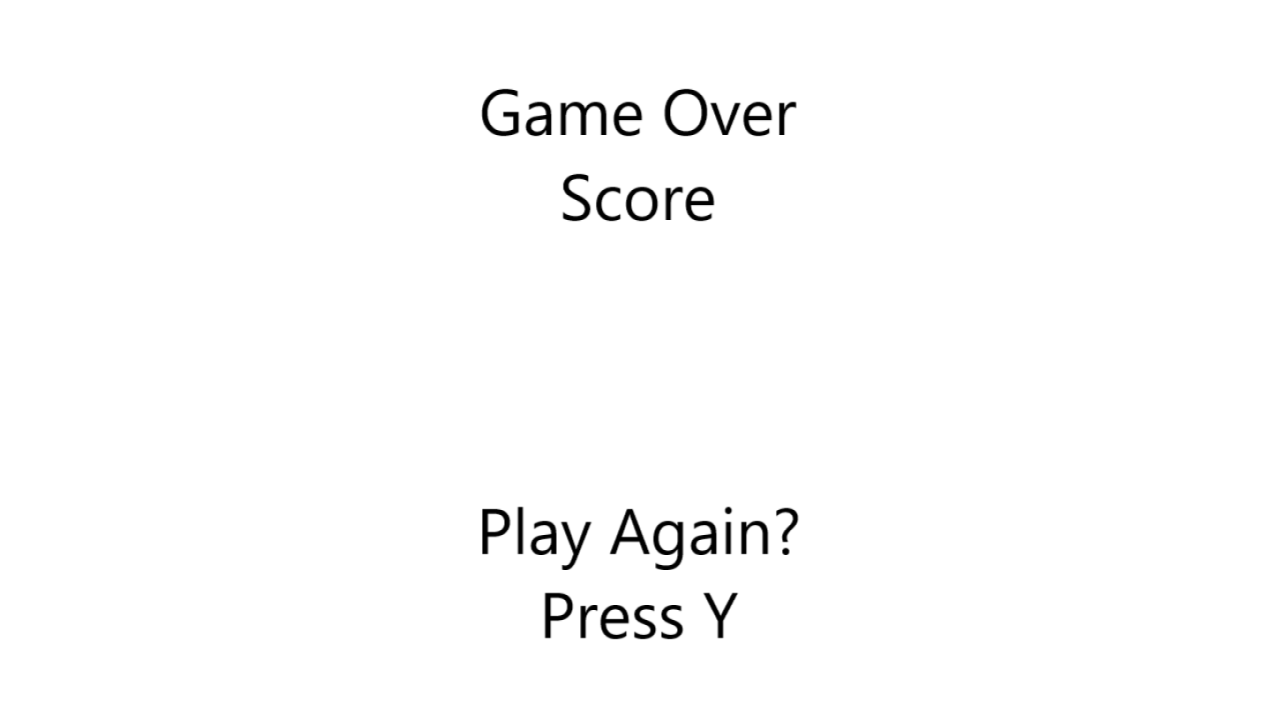
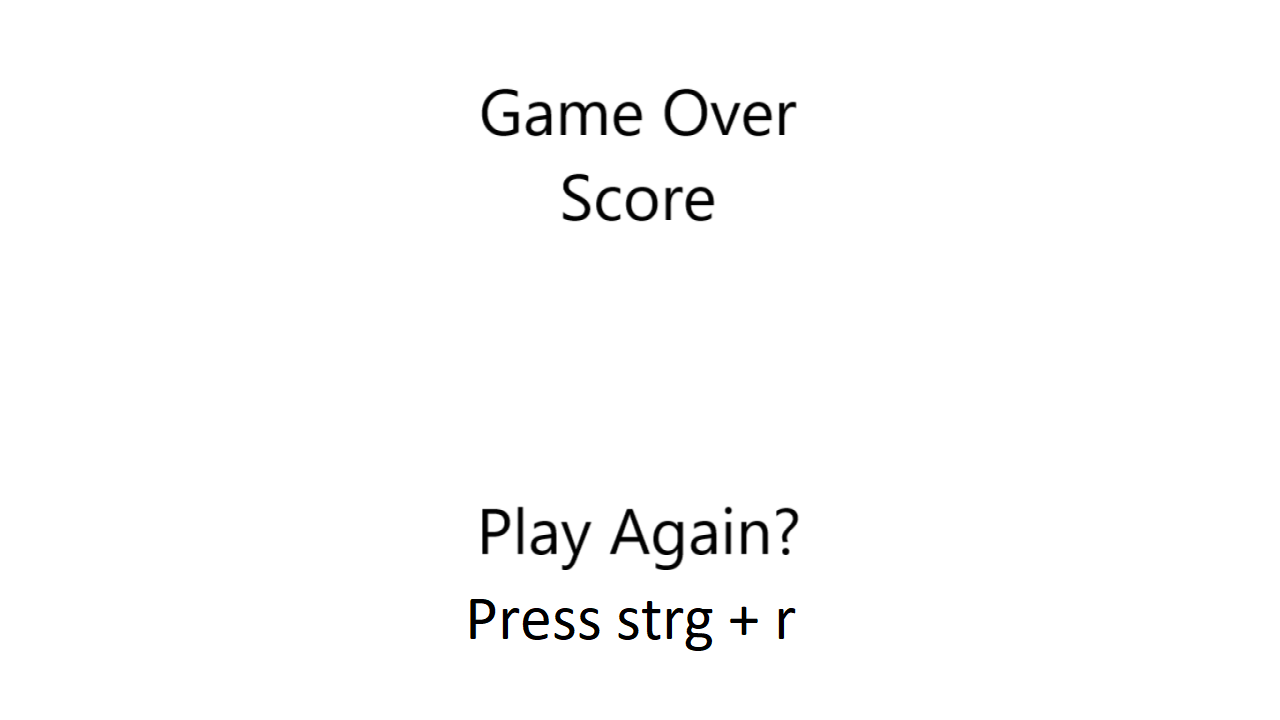
21. Stunde part 1
-Simplified
-Dokumentation

Changed region(s): [[0.3438, 0.825, 0.625, 0.9167]]

diff --git a/Schussgame/Simple Top-Down Shooter/MyWorld.java b/Schussgame/Simple Top-Down Shooter/MyWorld.java
@@ -4,9 +4,7 @@ public class MyWorld extends World //The world in wich the game happens.
     public static int game_speed =50; // Number of times Act is performed per Second(Can change depending on performance).
     public static int Slimes =0; // The Number of Slimes currently in the game.
     public static int Score =0; // The Score.
-    public int wait =0; // Temp storage.
     public int Max_Slimes =1; //The current number of Slimes Max at a time.
-    public int wait_2 =0; // Temp storage.
     GreenfootSound tense_backgroundMusic = new GreenfootSound("Trouble.mp3"); //Makes it playable as a Loop.
     GreenfootSound backgroundMusic = new GreenfootSound("dungeon theme.mp3"); //Makes it playable as a Loop.
     GreenfootSound GameOverMusic = new GreenfootSound("No Hope.mp3"); //Makes it playable as a Loop.
@@ -24,18 +22,21 @@ public class MyWorld extends World //The world in wich the game happens.
         game_speed =50; // Number of times Act is performed per Second(Can change depending on performance).
         Slimes =0; // The Number of Slimes currently in the game.
         Score =0; // The Score.
-        wait =0; // Temp storage.
         Max_Slimes =1; //The current number of Slimes Max at a time.
-        wait_2 =0; // Temp storage.
+        getObjects(Player.class).get(0).Cooldown_Gun =-10; // Cooldown until player can shoot again.
+        getObjects(Player.class).get(0).upgrade_level =0; // Current level of the player.
+        getObjects(Player.class).get(0).Hearts =5; // The amounts of Hearts.
+        getObjects(Player.class).get(0).immortal =3*MyWorld.game_speed; // Time the Player is immortal they start with 3 seconds.
+        getObjects(Player.class).get(0).forcefield_time =0; // The current Forcefield time.
     }
     public void act() //Done around 50 times per Second.
     {
         slime_spawning();
-        GameOver();
         update_Max();
         Background_Music();
         Pause_Menu();
         startmenu();
+        GameOver();
         //cheat_codes(); // Used to test new features.
     }
     public void startmenu() //Deletes the Startmenu.
@@ -47,6 +48,10 @@ public class MyWorld extends World //The world in wich the game happens.
     }
     public void Pause_Menu() //Makes the Pause Menu possible.
     {
+        if(!getObjects(PauseMenu.class).isEmpty()) //Checks if the Pausemenu is there.
+        {
+            this.removeObjects(getObjects(PauseMenu.class)); //Removes the Pausemenu.
+        }
         if(Greenfoot.isKeyDown("p")) //If the player presses P
         {
             this.addObject(new PauseMenu(),640,360); //adds the Pausemenu.
@@ -54,118 +59,108 @@ public class MyWorld extends World //The world in wich the game happens.
             backgroundMusic.stop(); //Stops Background Music.
             Greenfoot.stop(); //Pauses Greenfoot.
         }
-        if(!getObjects(PauseMenu.class).isEmpty()) //Checks if the Pausemenu is there.
-        {
-            this.removeObjects(getObjects(PauseMenu.class)); //Removes the Pausemenu.
-        }
     }
-    public void Background_Music() //
+    public void Background_Music() //Changes the Background Music.
     {
-        if(getObjects(Player.class).get(0).Hearts==1)
+        if(getObjects(Player.class).get(0).Hearts==1) //If the Player has only 1 Heart Remaining it gets Tense.
         {
             backgroundMusic.stop();
             tense_backgroundMusic.playLoop();
         }
-        else if (getObjects(Player.class).get(0).Hearts>0)
+        else if(getObjects(Player.class).get(0).Hearts>1) //Else the Background is Calm.
         {
             tense_backgroundMusic.stop();
             backgroundMusic.playLoop();
         }
     }
-    public void cheat_codes()
+    public void cheat_codes() //Cheat codes for tests.
     {
-        if(Greenfoot.isKeyDown("u"))
+        if(Greenfoot.isKeyDown("u")) //Spawns Upgrades.
         {
             this.addObject(new Upgrade(),690,360);
         }
-        if(Greenfoot.isKeyDown("h"))
+        if(Greenfoot.isKeyDown("h")) //Spawns Medikits.
         {
             this.addObject(new MediKit(),740,360);
         }
-        if(Greenfoot.isKeyDown("f"))
+        if(Greenfoot.isKeyDown("f")) //Spawns Forcefields.
         {
             this.addObject(new Forcefield_item(),790,360);
         }
-        if(Greenfoot.isKeyDown("c"))
+        if(Greenfoot.isKeyDown("c")) //Adds to the Score.
         {
             Score++;
         }
     }
-    public void update_Max()
+    public void update_Max() //Updates the Maximum number of slimes at a Time.
     {
-        if(Score>2)
+        if(Score>2) //Makes shure the score is higher than 2 to prevent problems from happening.
         {
-            Max_Slimes=Score/2;
+            Max_Slimes=Score/2; //Sets max slimes to halve of the Score.
         }
     }
-    public void GameOver()
+    public void GameOver() //This Void ends the Game.
     {
-        if(getObjects(Player.class).get(0).Hearts<1)
+        if(!getObjects(GameOver.class).isEmpty()) //Resets the Game.
         {
-            removeObjects(getObjects(Actor.class));
-            tense_backgroundMusic.stop();
-            backgroundMusic.stop();
-            GameOverMusic.playLoop();
-            this.addObject(new GameOver(),640,360);
-            this.addObject(new Credits(), 240,360);
-            this.addObject(new OnlyScore(),640,360);
-            if(Greenfoot.isKeyDown("y")&&wait>100)
-            {
-                removeObjects(getObjects(Actor.class));
-                this.addObject(new Player(), 640, 360); //adds the Player.
-                this.addObject(new ScoreCounter(), 640,30); //adds the ScoreCounter.
-                this.addObject(new HeartCounter(), 640,70); //adds the Heart Display.
-                this.addObject(new UpgradeCounter(),640,690); //adds the upgrade Display.
-                this.addObject(new CooldownDisplay(), 640, 650); //adds the Cooldown Display.
-                game_speed =50; // Number of times Act is performed per Second(Can change depending on performance).
-                Slimes =0; // The Number of Slimes currently in the game.
-                Score =0; // The Score.
-                wait =0; // Temp storage.
-                Max_Slimes =1; //The current number of Slimes Max at a time.
-                GameOverMusic.stop();
-            }
-            else
-            {
-                wait++;
-            }
+            removeObjects(getObjects(Actor.class)); //Wipes the World clean.
+            this.addObject(new Player(), 640, 360); //adds the Player.
+            this.addObject(new ScoreCounter(), 640,30); //adds the ScoreCounter.
+            this.addObject(new HeartCounter(), 640,70); //adds the Heart Display.
+            this.addObject(new UpgradeCounter(),640,690); //adds the upgrade Display.
+            this.addObject(new CooldownDisplay(), 640, 650); //adds the Cooldown Display.
+            game_speed =50; // Number of times Act is performed per Second(Can change depending on performance).
+            Slimes =0; // The Number of Slimes currently in the game.
+            Score =0; // The Score.
+            Max_Slimes =1; //The current number of Slimes Max at a time.
+            getObjects(Player.class).get(0).Cooldown_Gun =-10; // Cooldown until player can shoot again.
+            getObjects(Player.class).get(0).upgrade_level =0; // Current level of the player.
+            getObjects(Player.class).get(0).Hearts =5; // The amounts of Hearts.
+            getObjects(Player.class).get(0).immortal =3*MyWorld.game_speed; // Time the Player is immortal they start with 3 seconds.
+            getObjects(Player.class).get(0).forcefield_time =0; // The current Forcefield time.
+            GameOverMusic.stop(); //Stops the Game over Music.
+        }
+        if(getObjects(Player.class).get(0).Hearts<1) //Detects if player is dead.
+        {
+            removeObjects(getObjects(Actor.class)); //Wipes the World clean.
+            tense_backgroundMusic.stop(); //Stops the Background Music.
+            backgroundMusic.stop(); //Stops the Background Music.
+            GameOverMusic.playLoop(); //Plays the Game Over Music.
+            this.addObject(new Player(), 640, 360); //adds player to prevent some bugs.
+            this.addObject(new GameOver(),640,360); //adds the GameOver display.
+            this.addObject(new Credits(), 240,360); //adds the Credits.
+            this.addObject(new OnlyScore(),640,360); //adds only the score.
+            Greenfoot.stop(); //Pauses Greenfoot.
         }
     }
-    public void slime_spawning()
+    public void slime_spawning() // Spawns Slimes.
     {
-        if(Slimes<Max_Slimes)
+        if(Slimes<Max_Slimes) //Checks that the Max number of slimes isn't reached already.
         {
-            int FlipFlop = Greenfoot.getRandomNumber(4);
-            if(FlipFlop==0)
+            int FlipFlop = Greenfoot.getRandomNumber(4); //gets random number to select on wich border tzo spawn slimes.
+            if(FlipFlop==0) //Spawns Slime at Random point on the Bottom Border.
             {
-                Slime Rimuru = new Slime();
-                Rimuru.setRotation(90);
-                this.addObject(Rimuru,getRandomNumber(0,1280),0);
+                this.addObject(new Slime(),getRandomNumber(0,1280),0);
                 Slimes = Slimes+1;
             }
-            else if (FlipFlop==1)
+            else if (FlipFlop==1) //Spawns Slime at Random point on the Left Border.
             {
-                Slime Rimuru = new Slime();
-                Rimuru.setRotation(0);
-                this.addObject(Rimuru,0,getRandomNumber(0,720));
+                this.addObject(new Slime(),0,getRandomNumber(0,720));
                 Slimes = Slimes+1;
             }
-            else if (FlipFlop==2)
+            else if (FlipFlop==2) //Spawns Slime at Random point on the Top Border.
             {
-                Slime Rimuru = new Slime();
-                Rimuru.setRotation(270);
-                this.addObject(Rimuru,getRandomNumber(0,1280),720);
+                this.addObject(new Slime(),getRandomNumber(0,1280),720);
                 Slimes = Slimes+1;
             }
-            else
+            else  //Spawns Slime at Random point on the Right Border.
             {
-                Slime Rimuru = new Slime();
-                Rimuru.setRotation(180);
-                this.addObject(Rimuru,1280,getRandomNumber(0,720));
+                this.addObject(new Slime(),1280,getRandomNumber(0,720));
                 Slimes = Slimes+1;
             }
         }
     }
-    public static int getRandomNumber(int start,int end)
+    public static int getRandomNumber(int start,int end) //gets you a Random number between two numbers.
     {    /*getRandomNumber(20,30);*/
        int normal = Greenfoot.getRandomNumber(end-start+1);
        return normal+start;

diff --git a/Schussgame/Simple Top-Down Shooter/Slime.java b/Schussgame/Simple Top-Down Shooter/Slime.java
@@ -1,7 +1,7 @@
 import greenfoot.*;
 public class Slime extends NPC //Enemy of the Player.
 {
-    public int normal=0;
+    public int normal=10;
     public void act() //Done around 50 times per secound.
     {
         rnd_Move();
